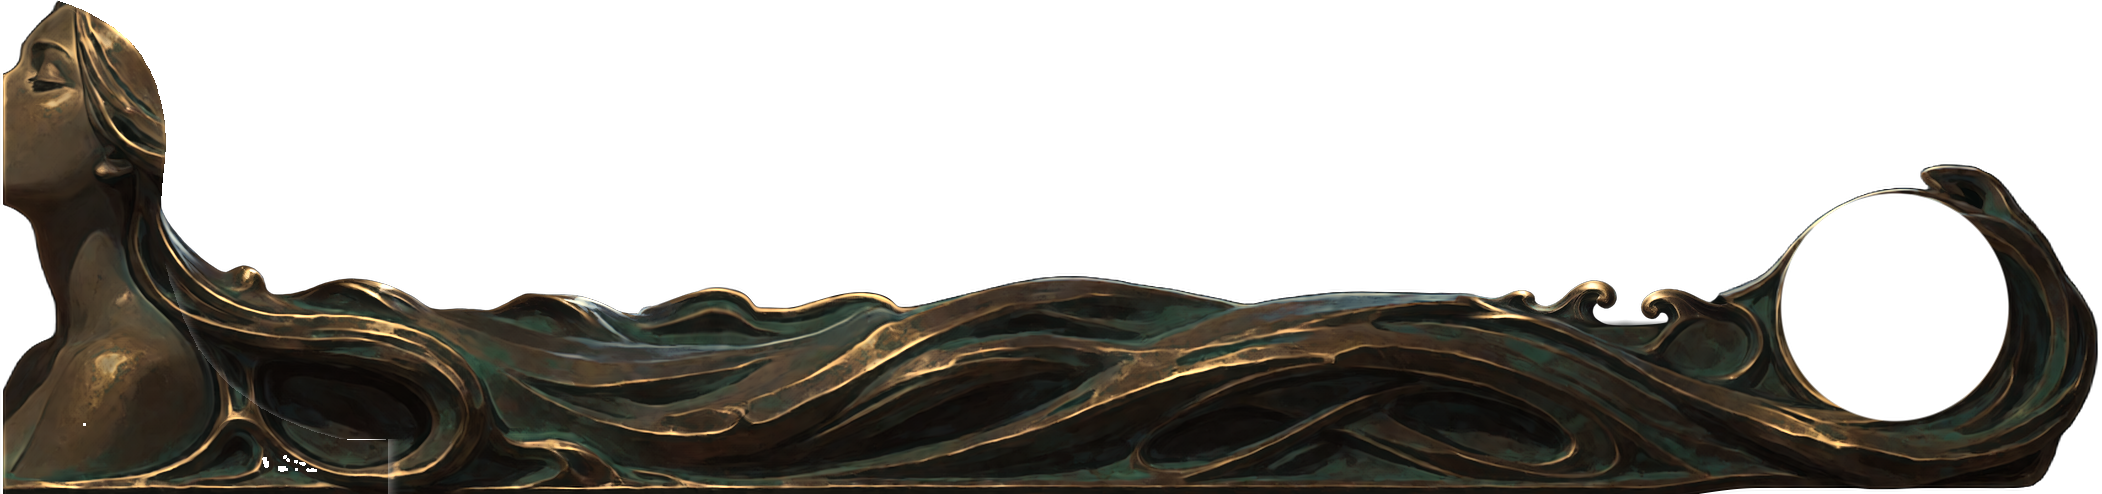
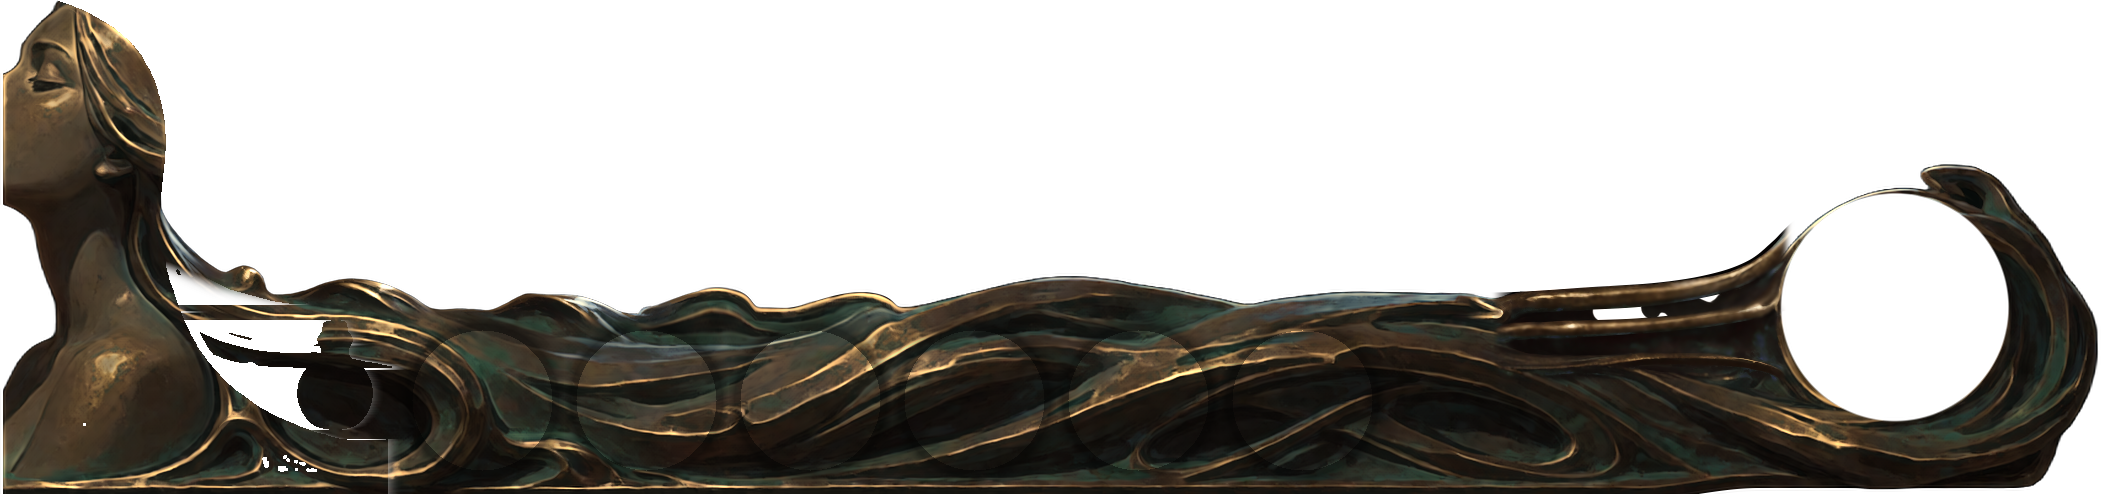
UI 18 hair (unjudged): the owner's two marks and the wraps under --hud drowned
Area 1 ("some strandage is missing", under her ear toward the flask): three sculpted strands painted down her back
hair's dark flank and the zone under her ear (procedural strands behind the existing ones, along the hair's flow),
sweeping round into the river over the top of the flask's loop; the loop stays open (the flask sits in it, with a
contact shadow); the knob on the river's top line by her neck cut (dg_figure_cut PATCHES_2X a1, dg_river_cut NUB_CUT).
Area 2 ("awkward chaotic on the left side of the flare"): the two curls and the hollow before the coal's cup calmed
into two long sweeps, the upper rising into the cup's rim (Krea 2 turbo inpaint seed 9520 at 0.42 over a drawn guide,
blue rim clamped to bronze; dg_river_cut FINAL_PATCHES a2, laid after the bronze/strand passes).
Seats: contact shadows on the river round the six rings (SEAT_AO). XP light masks re-baked (dg_xp_mask.py).
Patches, guides and scripts: survivorsunchained_inputs/ui18_dg_src/hair/. Frames dg10/dg10d in ui18_dg; tests 1203/0/10.

diff --git a/tools/uiforge/dg_river_cut.py b/tools/uiforge/dg_river_cut.py
@@ -67,6 +67,19 @@ PATCHES = [("j", (584, 904, 944, 1044)), ("c", (1256, 924, 1456, 1024))]
 SWELLS = [(912, 10.0, 40.0), (984, 8.0, 38.0)]
 SWELL_BASE = 987.0
 SWELL_BOX = (850, 924, 1030, 1024)
+# UI 18 (the owner: "make sure the hair is really perfect"; "a little awkward chaotic on the left side of the flare"):
+# painted patches laid over the finished river (after the bronze and strand passes; their paint is already graded),
+# from survivorsunchained_inputs/ui18_dg_src/hair/build_patches.py: (tag, box at 1080 px), patch_TAG.png (straight
+# RGBA, 2x) and patch_TAG_w.png. a2: the two curls and the hollow before the coal's cup calmed into two long sweeps,
+# the upper rising into the cup's rim (Krea 2 turbo inpaint, seed 9520, denoise 0.42, over a drawn guide).
+HAIR_DIR = "C:/Users/munch/Desktop/survivorsunchained_inputs/ui18_dg_src/hair"
+FINAL_PATCHES = [("a2", (1280, 900, 1536, 1060))]
+# the knob on the top line by her neck (x 652-704) is cut: the river above this line (1080 px) goes (her figure's
+# patch a1 paints the clean top there)
+NUB_CUT = ([640, 655, 668, 690, 700, 712], [952, 965, 971.5, 977.5, 979, 978.5])
+# contact shadows: the seats' rings lie on the river; it darkens just outside each ring, more below and right (away
+# from the light): (strength, falloff px, offset px) at 1080
+SEAT_AO = (0.45, 4.0, (1.0, 2.0))
 
 
 def smooth(e0, e1, x):
@@ -169,6 +182,8 @@ def river():
     line = 2 * np.interp(X[0] / 2, jx, jy)[None, :]
     top = np.maximum(smooth(line - 6, line + 8, Y), smooth(2 * jx[-1] - 20, 2 * jx[-1], X))
     vis = np.where(F > 0.97, 1.0, side * top)
+    nx, ny = NUB_CUT
+    vis = vis * (1 - ((Y / 2 < np.interp(X / 2, nx, ny)) & (X / 2 > 652) & (X / 2 < 704)))
     L[..., 3] *= vis
     L[..., :3] *= vis[..., None]
     for name, (x0, y0, x1, y1) in PATCHES:
@@ -191,7 +206,28 @@ def river():
     # (ui17 A) the bronze pass, as on her figure (2x screen px: 0.86 of her source's)
     col = bronze_pass(np.clip(col, 0, 1), L[..., 3], scale=0.86)
     col = strand_pass(col, L[..., 3], np.ones(col.shape[:2], np.float32), scale=0.86, gain=STRAND_GAIN)
-    img = Image.fromarray((np.dstack([np.clip(col, 0, 1), L[..., 3]]) * 255 + 0.5).astype(np.uint8), "RGBA")
+    al = L[..., 3].copy()
+    for tag, (x0, y0, x1, y1) in FINAL_PATCHES:
+        f = os.path.join(HAIR_DIR, f"patch_{tag}.png")
+        if not os.path.exists(f):
+            print(f"(no patch {tag})")
+            continue
+        P = np.asarray(Image.open(f).convert("RGBA"), np.float32) / 255
+        w = np.asarray(Image.open(f.replace(".png", "_w.png")).convert("L"), np.float32)[..., None] / 255
+        sl = np.s_[y0 * 2 - by0:y1 * 2 - by0, x0 * 2 - bx0:x1 * 2 - bx0]
+        pre = col[sl] * al[sl][..., None] * (1 - w) + P[..., :3] * P[..., 3:] * w
+        al[sl] = al[sl] * (1 - w[..., 0]) + P[..., 3] * w[..., 0]
+        col[sl] = np.where(al[sl][..., None] > 1e-3, pre / np.maximum(al[sl][..., None], 1e-3), 0)
+    # the seats' contact shadows on the river
+    k, wd, (ox, oy) = SEAT_AO
+    Yc, Xc = np.mgrid[:al.shape[0], :al.shape[1]].astype(np.float32)
+    Xs, Ys = (Xc + bx0) / 2, (Yc + by0) / 2
+    sh = np.zeros_like(al)
+    for i in range(6):
+        d = np.hypot(Xs - (SEAT_MID + (i - 2.5) * SEAT_PITCH) - ox, Ys - SEAT_Y - oy) - (SEAT_D / 2 - 1)
+        sh = np.maximum(sh, np.exp(-np.clip(d, 0, None) / wd) * (d > -3))
+    col = col * (1 - k * sh)[..., None]
+    img = Image.fromarray((np.dstack([np.clip(col, 0, 1), al]) * 255 + 0.5).astype(np.uint8), "RGBA")
     return img, (int(bx0 // 2), int(by0 // 2))
 
 

diff --git a/tools/uiforge/dg_figure_cut.py b/tools/uiforge/dg_figure_cut.py
@@ -64,7 +64,9 @@ SHOULDER = (530.0 + PADL, 560.0, 70.0)   # the hot spot on her shoulder (source 
 HAND_LIFT = 0.06    # her hand and forearm a touch brighter than the rest of her bronze (ui17 A: 0.22 read yellow)
 RED_BOUNCE = (0.0, 0.0, 0.0)   # (ui17 A: the orb's red on her is live now, hud_dg_orb.gdshader, scaled to her life)
 STRAND_GAIN = 1.0   # ui17 A: the hair's joined highlights (strand_pass); UI 18: back on with dg5's hair
-HAND_MATCH = 1.0    # ui17 A (the judge: "yellower than her body"): her hand's hue matched to her neck and shoulder
+PATCH_DIR = r"C:\Users\munch\Desktop\survivorsunchained_inputs\ui18_dg_src\hair"
+PATCHES_2X = [("a1", (584, 872, 776, 1080))]   # (UI 18) painted patches over the finished figure: (tag, box at 1080 px)
+HAND_MATCH = 1.0   # ui17 A (the judge: "yellower than her body"): her hand's hue matched to her neck and shoulder
 
 
 # ui17 A (the judge's polish list, "Bronze: tight highlights on the raised edges ... green patina only in the hollows;
@@ -379,6 +381,26 @@ def main():
     # the right edge: the hair runs on under the bar; feather its last 24 px (1080) so it ends soft until piece 2
     fe = np.clip((cw2 - np.arange(cw2)) / 48.0, 0, 1)[None, :, None]
     oa = oa * fe
+    # (UI 18, the owner: "some strandage is missing" under her ear toward the flask) a painted patch at 2x screen px
+    # over the finished figure: strands down her back hair's dark flank sweeping round into the river over the flask's
+    # loop (procedural sculpted strands, behind the ones there), the knob on the river's top line cut, the flask's
+    # contact shadow. Made by survivorsunchained_inputs/ui18_dg_src/hair/build_patches.py (README there).
+    for tag, (bx0, by0, bx1, by1) in PATCHES_2X:
+        f = os.path.join(PATCH_DIR, f"patch_{tag}.png")
+        if not os.path.exists(f):
+            print(f"(no patch {tag})")
+            continue
+        P = np.asarray(Image.open(f).convert("RGBA"), np.float32) / 255
+        w = np.asarray(Image.open(f.replace(".png", "_w.png")).convert("L"), np.float32)[..., None] / 255
+        ox, oy = int(round(RIGHT_X * 2 - cw2)), 2160 - ch2   # the canvas's top left, 2x screen px (as the river reads it)
+        cx0, cy0 = bx0 * 2 - ox, by0 * 2 - oy
+        sx0, sy0 = max(0, -cx0), max(0, -cy0)
+        ex, ey = min(P.shape[1], cw2 - cx0), min(P.shape[0], ch2 - cy0)
+        sl = np.s_[cy0 + sy0:cy0 + ey, cx0 + sx0:cx0 + ex]
+        Pp, wp = P[sy0:ey, sx0:ex], w[sy0:ey, sx0:ex]
+        pre = orgb[sl] * oa[sl] * (1 - wp) + Pp[..., :3] * Pp[..., 3:] * wp
+        oa[sl] = oa[sl] * (1 - wp) + Pp[..., 3:] * wp
+        orgb[sl] = np.where(oa[sl] > 1e-3, pre / np.maximum(oa[sl], 1e-3), 0)
     out = Image.fromarray((np.clip(np.dstack([orgb, oa]), 0, 1) * 255 + 0.5).astype(np.uint8), "RGBA")
     os.makedirs(OUT, exist_ok=True)
     out.save(os.path.join(OUT, "lamp_cold.png"))
